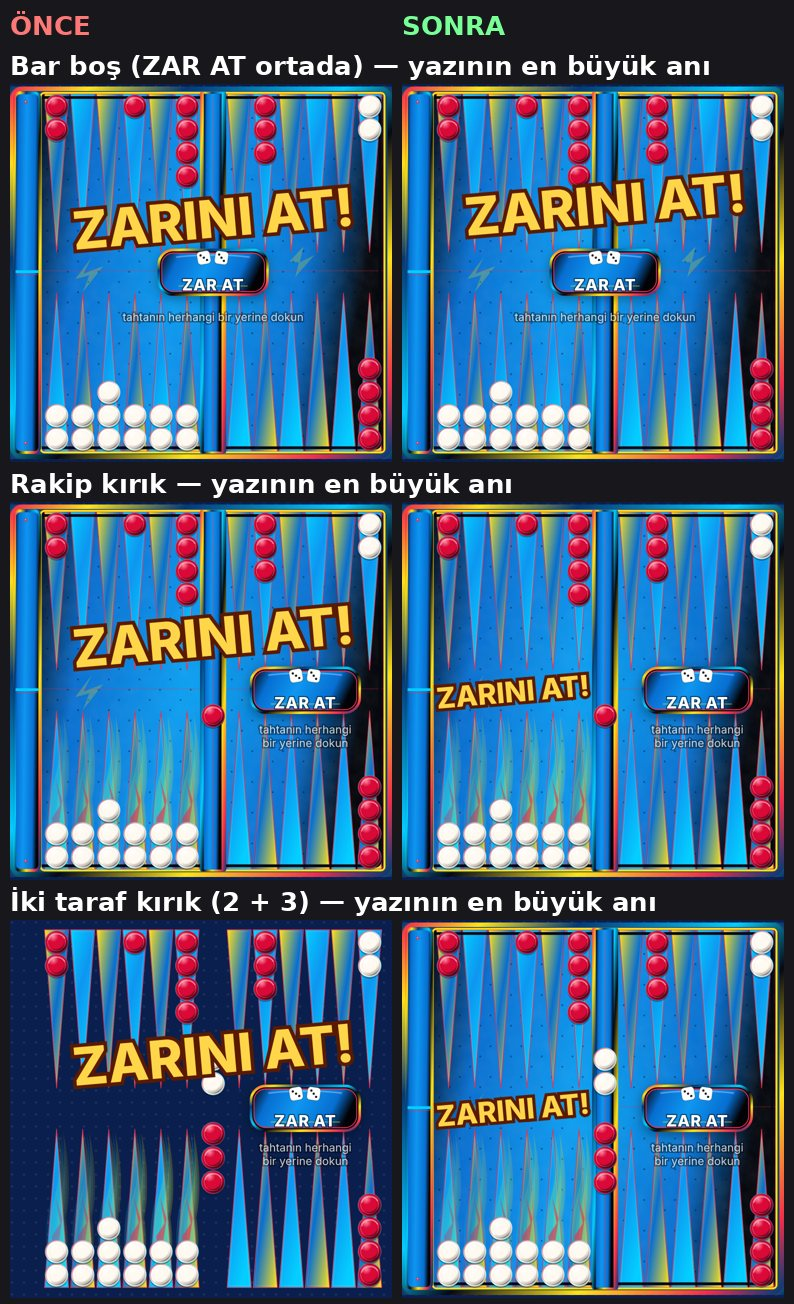
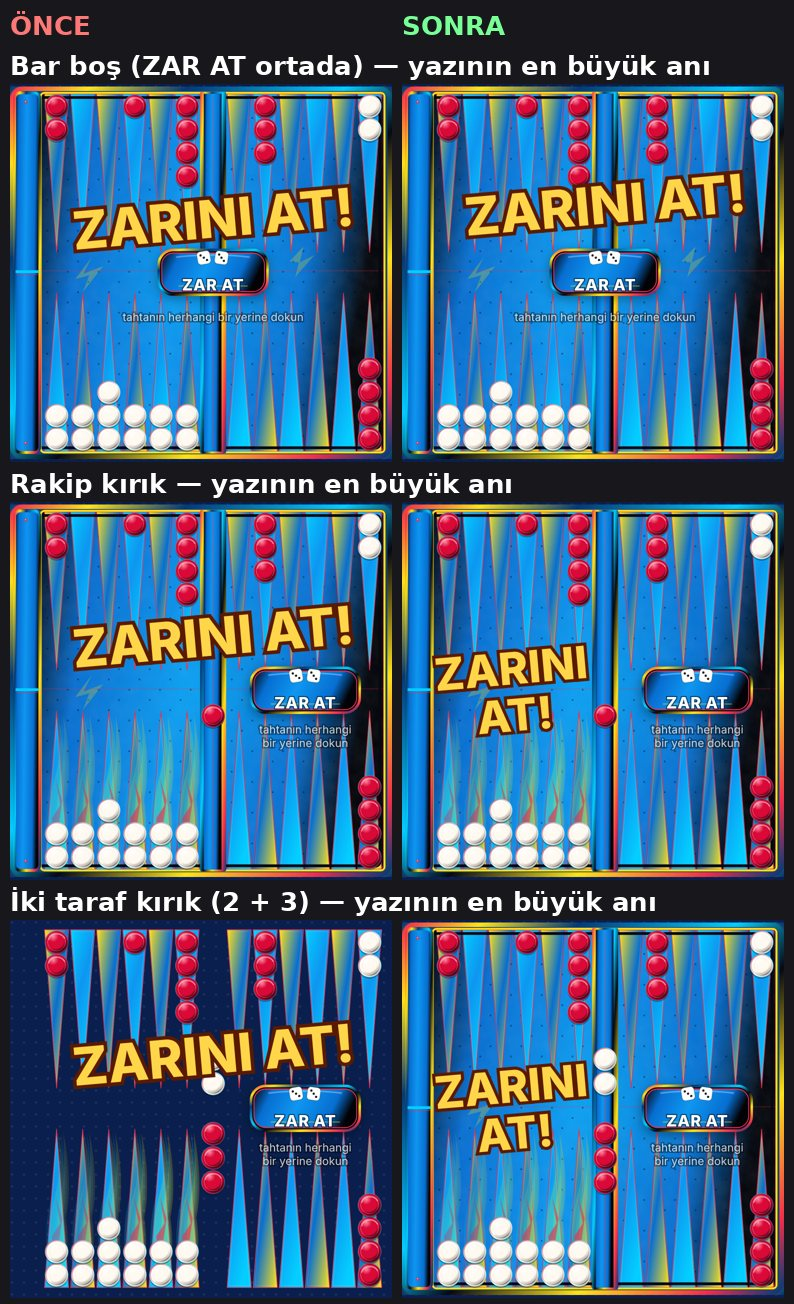
"ZARINI AT!": yarım tahtada sığmazsa iki satır, okunur boyutta kalsın
iPhone SE CI'da (geniş yedek yazı tipi) yandaki yazı 19 px'e iniyordu.
Tek satır %72'nin altına küçülecekse kelimelerden ikiye bölünür
("ZARINI" / "AT!"), her satır yarım tahtaya sığdırılır. Test geniş
yazı tipini taklit ederek en kötü durumu ölçer: ekranda 27–33 px.

Claude-Session: https://claude.ai/code/session_014VdAYP7YostKHqTFJshCgs

Changed region(s): [[0.5441, 0.7975, 0.7557, 0.8896], [0.5441, 0.4908, 0.7557, 0.5828]]

diff --git a/index.html b/index.html
@@ -1870,7 +1870,16 @@ function showBanner(delay,text,gold){
     // yazı (0,0) noktasında, konumu kapsayan grubun translate'i verir: büyütme her tarayıcıda yazının merkezinden olur
     // (Safari SVG yazıda transform-box:fill-box'ı Chromium gibi uygulamıyor). Ortada: en büyüdüğü anda da ZAR AT düğmesine değmesin
     const g=$('#dbtG');if(g)g.setAttribute('transform',side?'translate(119 201)':'translate(218 127)');t.classList.toggle('side',side);
-    t.classList.toggle('gold',!!gold);t.textContent=text;t.style.fontSize='';try{const w=t.getComputedTextLength();if(w>maxW){const fs=parseFloat(getComputedStyle(t).fontSize)||36;t.style.fontSize=(fs*maxW/w).toFixed(1)+'px';}}catch(e){}void t.getBoundingClientRect();t.classList.add('pop');},delay);
+    t.classList.toggle('gold',!!gold);t.textContent=text;t.style.fontSize='';
+    try{const fs=parseFloat(getComputedStyle(t).fontSize)||36,w=t.getComputedTextLength();
+      if(w>maxW){let f=fs*maxW/w;
+        // yarım tahtada tek satır çok küçülecekse (ör. dar ekran, geniş yazı tipi) iki satıra böl: "ZARINI" / "AT!"
+        const ws=text.split(' ');
+        if(side&&f<fs*.72&&ws.length>1){let k=1,best=1e9;for(let i=1;i<ws.length;i++){const d=Math.abs(ws.slice(0,i).join(' ').length-ws.slice(i).join(' ').length);if(d<best){best=d;k=i;}}
+          t.textContent='';[ws.slice(0,k).join(' '),ws.slice(k).join(' ')].forEach((l,i)=>{const sp=document.createElementNS('http://www.w3.org/2000/svg','tspan');sp.setAttribute('x','0');sp.setAttribute('dy',i?'1.05em':'-.52em');sp.textContent=l;t.appendChild(sp);});
+          const lw=Math.max(...[...t.children].map(c=>c.getComputedTextLength()));f=Math.min(fs,fs*maxW/lw);}
+        t.style.fontSize=f.toFixed(1)+'px';}}catch(e){}
+    void t.getBoundingClientRect();t.classList.add('pop');},delay);
 }
 function showDbl(delay){if(!JOKE)return;const hk=G.all[0]===6,D=DBLS();showBanner(delay,hk?i18('hakko'):D[(G.seed>>>0)%D.length],hk);}
 let rafOn=false;

diff --git a/tests/e2e-themes.js b/tests/e2e-themes.js
@@ -45,6 +45,8 @@ const barCheck=p=>p.evaluate(()=>{
   return {bar:bar.length,btn:!!document.querySelector('#bg .rbig'),cakisma:bar.some(c=>btn.some(x=>hit(c,x))),boardW:Math.round($('#board').getBoundingClientRect().width)};});
 // "ZARINI AT!" yazısı en büyük anında (animasyonun tepe ölçeği) bardaki pullara ve ZAR AT düğmesine değiyor mu
 const banCheck=p=>p.evaluate(async()=>{
+  // CI'daki geniş yedek yazı tipini taklit et (en kötü durum): yazı yine de okunur kalmalı
+  if(!document.getElementById('banWide')){const st=document.createElement('style');st.id='banWide';st.textContent='#dbt{font-family:"DejaVu Sans",Verdana,sans-serif!important;letter-spacing:.06em}';document.head.appendChild(st);}
   showBanner(0,i18('throwBan'),true);await new Promise(r=>setTimeout(r,80));
   const t=$('#dbt'),side=t.classList.contains('side');t.style.animation='none';t.style.opacity='1';t.style.transform=side?'scale(1.1) rotate(-5deg)':'scale(1.28) rotate(-5deg)';
   const R=t.getBoundingClientRect(),bar=$('#bg rect[data-k="bar"]').getBoundingClientRect(),bw=$('#board').getBoundingClientRect();
@@ -53,7 +55,7 @@ const banCheck=p=>p.evaluate(async()=>{
   const hit=(a,b)=>a.left<b.right-1&&b.left<a.right-1&&a.top<b.bottom-1&&b.top<a.bottom-1;
   const fs=parseFloat(getComputedStyle(t).fontSize),scale=bw.width/410;
   const out={side,pul:ck.length,pulaDeger:ck.some(c=>hit(R,c)),dugmeyeDeger:btn.some(b=>hit(R,b)),bariKesiyor:side&&R.right>bar.left+1,tahtaIcinde:R.left>=bw.left-1&&R.right<=bw.right+1,
-    ekranPx:Math.round(fs*scale)};
+    ekranPx:Math.round(fs*scale),satir:t.querySelectorAll('tspan').length||1};
   t.style.animation='';t.style.opacity='';t.style.transform='';t.classList.remove('pop');return out;});
 const board=(m)=>{const b=Array(24).fill(0);for(const [i,v] of Object.entries(m))b[+i]=v;return b;};
 
